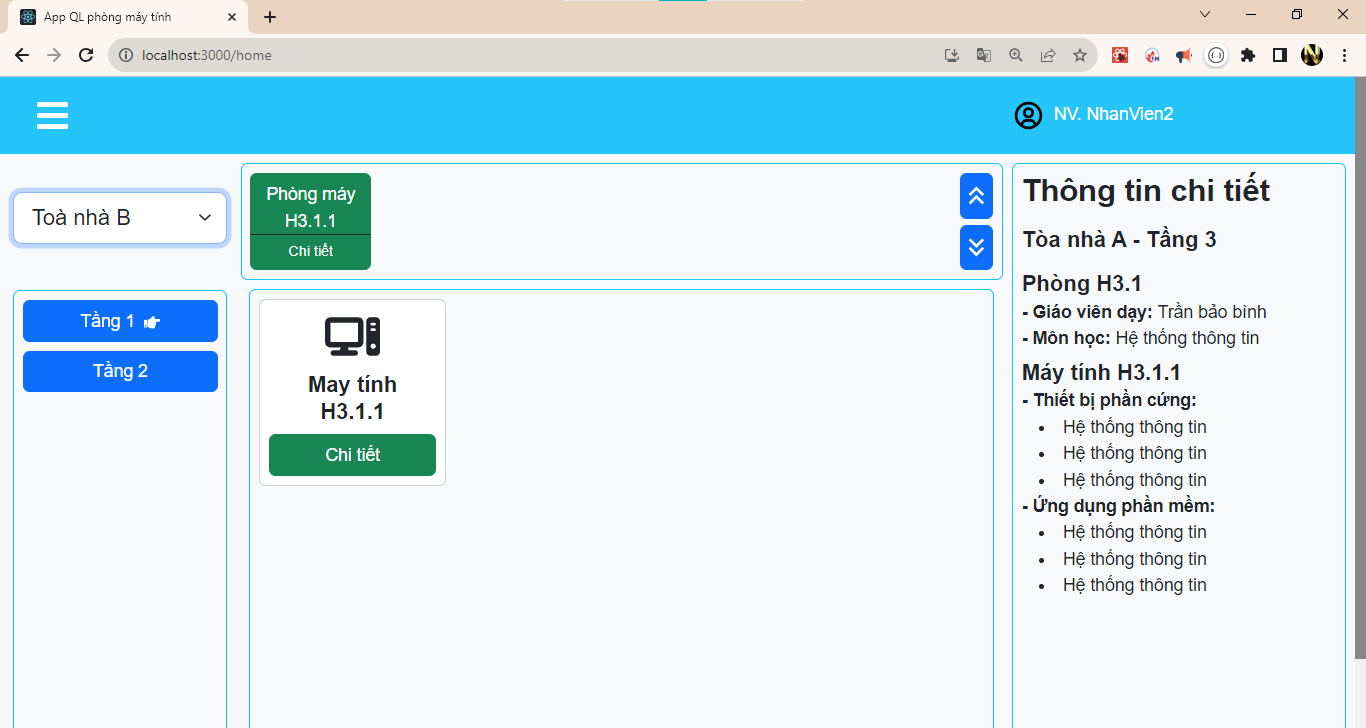
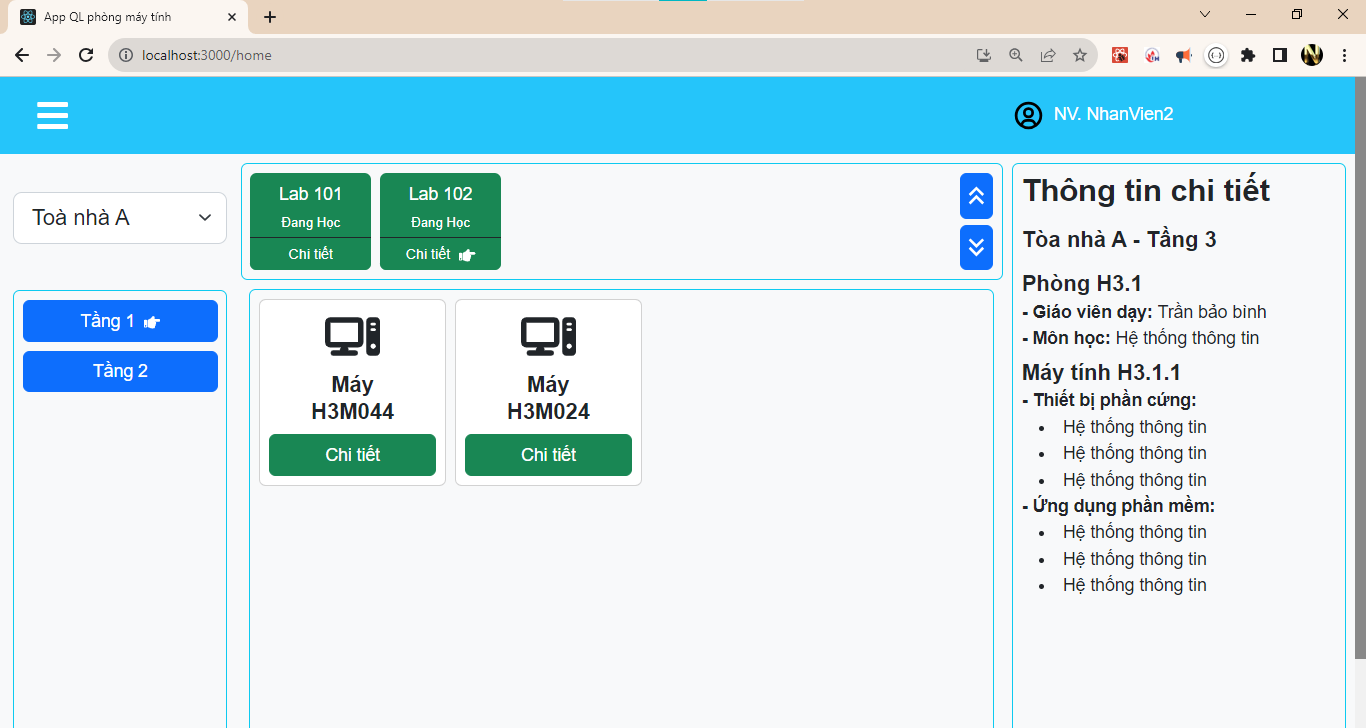
update PageHome: add api cho Phong vs MayTinh

diff --git a/src/pages/PageHome/PageHome.jsx b/src/pages/PageHome/PageHome.jsx
@@ -20,12 +20,10 @@ import {
 export default function PageHome() {
   const dispatch = useDispatch();
 
-  let { arrToaNha } = useSelector((state) => state.toaNhaReducer);
-  let { objPhongFirst, arrToaNhaH, arrTangH } = useSelector(
-    (state) => state.homeReducer
-  );
+  let { objThongTin, objPhongFirst, arrToaNhaH, arrTangH, arrPhongH, arrMayTinhH } =
+    useSelector((state) => state.homeReducer);
 
-  let { tang, mayTinhs } = objPhongFirst;
+  let { tang } = objThongTin;
 
   useEffect(() => {
     //
@@ -86,7 +84,69 @@ export default function PageHome() {
       );
     });
   };
+  //
+  const renderArrPhongHome = () => {
+    return arrPhongH?.map((item, index) => {
+      const renderBtnClickPhong = () => {
+        if (item.maPhong === objThongTin.maPhong) {
+          return <FaHandPointRight className="ms-2" size={15} />;
+        }
+        return <></>;
+      };
+      return (
+        <div
+          key={index}
+          className="bg-success rounded   my-2 ms-2 "
+          style={{ height: "89px" }}
+        >
+          <div className="d-flex flex-column justify-content-between h-100">
+            <span
+              className=" flex-grow-1 text-center  pt-2 "
+              style={{ width: "110px", height: "80%" }}
+            >
+              {item.tenPhong}
+            </span>
+            {/* Khiểm soát trang thái lớp có đang học hay không  */}
+            <span className="text-center p-1" style={{ fontSize: "12px" }}>
+              {item.trangThai ? "Đang Học" : ""}
+            </span>
+            <button
+              className="btn btn-success border-top border-0  rounded-0 rounded-bottom border-dark m-0 "
+              style={{ fontSize: "13px", padding: "5px" }}
+            >
+              Chi tiết
+              {renderBtnClickPhong()}
+            </button>
+          </div>
+        </div>
+      );
+    });
+  };
+  //
+  const renderArrMayTinh = () => {
+    return arrMayTinhH?.map((item, index) => {
+      return (
+        <div
+          key={index}
+          className=" card  align-items-center my-2 ms-2 "
+          style={{ width: "170px", height: "170px" }}
+        >
+          <div className="card-body text-center p-2">
+            <FaComputer size={50} />
+            <h4
+              className="pt-2 px-4"
+              style={{ fontSize: "20px", fontWeight: "600" }}
+            >
+              {item.moTa}
+            </h4>
+            <button className="btn btn-success w-100">Chi tiết</button>
+          </div>
+        </div>
+      );
+    });
+  };
 
+  //
   return (
     <div
       className="row p-2 d-flex justify-content-between bg-light  w-100"
@@ -163,25 +223,7 @@ export default function PageHome() {
               <div className=" d-flex flex-row">
                 {/* item */}
 
-                <div
-                  className="bg-success rounded   my-2 ms-2 "
-                  style={{ height: "89px" }}
-                >
-                  <div className="d-flex flex-column">
-                    <span
-                      className=" flex-grow-1 text-center  pt-2 "
-                      style={{ width: "110px" }}
-                    >
-                      Phòng máy H3.1.1
-                    </span>
-                    <button
-                      className="btn btn-success border-top border-0  rounded-0 rounded-bottom border-dark m-0 "
-                      style={{ fontSize: "13px", padding: "5px" }}
-                    >
-                      Chi tiết
-                    </button>
-                  </div>
-                </div>
+                {renderArrPhongHome()}
                 {/*  */}
               </div>
               {/* btn chuyển page cho Phong */}
@@ -217,21 +259,8 @@ export default function PageHome() {
             <div className="   over_flow_auto " style={{ height: "100%" }}>
               <div className="d-flex align-content-start flex-wrap">
                 {/* item */}
-                <div
-                  className=" card  align-items-center my-2 ms-2 "
-                  style={{ width: "170px", height: "170px" }}
-                >
-                  <div className="card-body text-center p-2">
-                    <FaComputer size={50} />
-                    <h4
-                      className="pt-2 px-3"
-                      style={{ fontSize: "20px", fontWeight: "600" }}
-                    >
-                      May tính H3.1.1
-                    </h4>
-                    <button className="btn btn-success w-100">Chi tiết</button>
-                  </div>
-                </div>
+
+                {renderArrMayTinh()}
                 {/*  */}
               </div>
             </div>

diff --git a/src/redux/reducers/homeReducer.jsx b/src/redux/reducers/homeReducer.jsx
@@ -5,8 +5,11 @@ import { http } from "../../util/config";
 
 const initialState = {
   objPhongFirst: {},
+  objThongTin: {},
   arrToaNhaH: [],
   arrTangH: [],
+  arrPhongH: [],
+  arrMayTinhH: [],
 };
 
 const homeReducer = createSlice({
@@ -15,9 +18,13 @@ const homeReducer = createSlice({
   reducers: {
     setObjPhongFirstAction: (state, action) => {
       // state.objPhongFirst = action.payload;
-      let { objPhongFirst, arrTangH } = action.payload;
+      let { objPhongFirst, arrTangH, arrPhongH, mayTinhs } = action.payload;
       state.objPhongFirst = objPhongFirst;
+      state.objThongTin = objPhongFirst;
       state.arrTangH = arrTangH;
+      state.arrPhongH = arrPhongH;
+      state.arrMayTinhH = mayTinhs;
+
     },
     setArrToaNhaHomeAction: (state, action) => {
       state.arrToaNhaH = action.payload;
@@ -40,28 +47,45 @@ export default homeReducer.reducer;
  *  */
 export const getPhongByFirst = async (dispatch) => {
   try {
-    let result = await http.get("/PhongMay/5");
+    let result = await http.get("/PhongMay/2");
     let objPhongFirst = result.data;
-    let { tang, mayTinhs } = objPhongFirst;
+    let { maPhong,tenPhong,moTa, tang, mayTinhs } = objPhongFirst;
 
+    //
+    let objThongTin = {
+      phong: { maPhong,tenPhong,moTa},
+      tang,
+      mayTinh: {},
+      arrThietBi:[],
+      arrPhanMem:[],
+      giaoVien:{},
+      nhanVien:{},
+      monHoc:{}
+    }
+    // 
     let resultArrTang = await http.get(
       `/TangTheoToaNha/${tang.toaNha.maToaNha}`
     );
     let arrTangH = resultArrTang.data;
 
+    // 
+    console.log("Chua co api lay list Phong theo maTang");
+    let resultArrPhong = await http.get("/DSPhongMay");
+
+    let arrPhongH = resultArrPhong.data.filter((item) => {
+      return item.tang.maTang === tang.maTang;
+    });
+
     dispatch(
       setObjPhongFirstAction({
         objPhongFirst,
         arrTangH,
+        arrPhongH,
+        mayTinhs
       })
     );
     // dispatch(setArrTangHomeAction(resultTang.data));
-  } catch (error) {
-    console.log(
-      "🚀 ~ file: homeReducer.jsx:31 ~ getPhongByFirst ~ error:",
-      error
-    );
-  }
+  } catch (error) {}
 };
 /**
  * Lấy toàn bộ tòa nhà - api
@@ -70,10 +94,5 @@ export const getAllToaNhaHomeApi = async (dispatch) => {
   try {
     let result = await http.get("/DSToaNha");
     dispatch(setArrToaNhaHomeAction(result.data));
-  } catch (error) {
-    console.log(
-      "🚀 ~ file: homeReducer.jsx:51 ~ getAllToaNhaHomeApi ~ error:",
-      error
-    );
-  }
+  } catch (error) {}
 };
